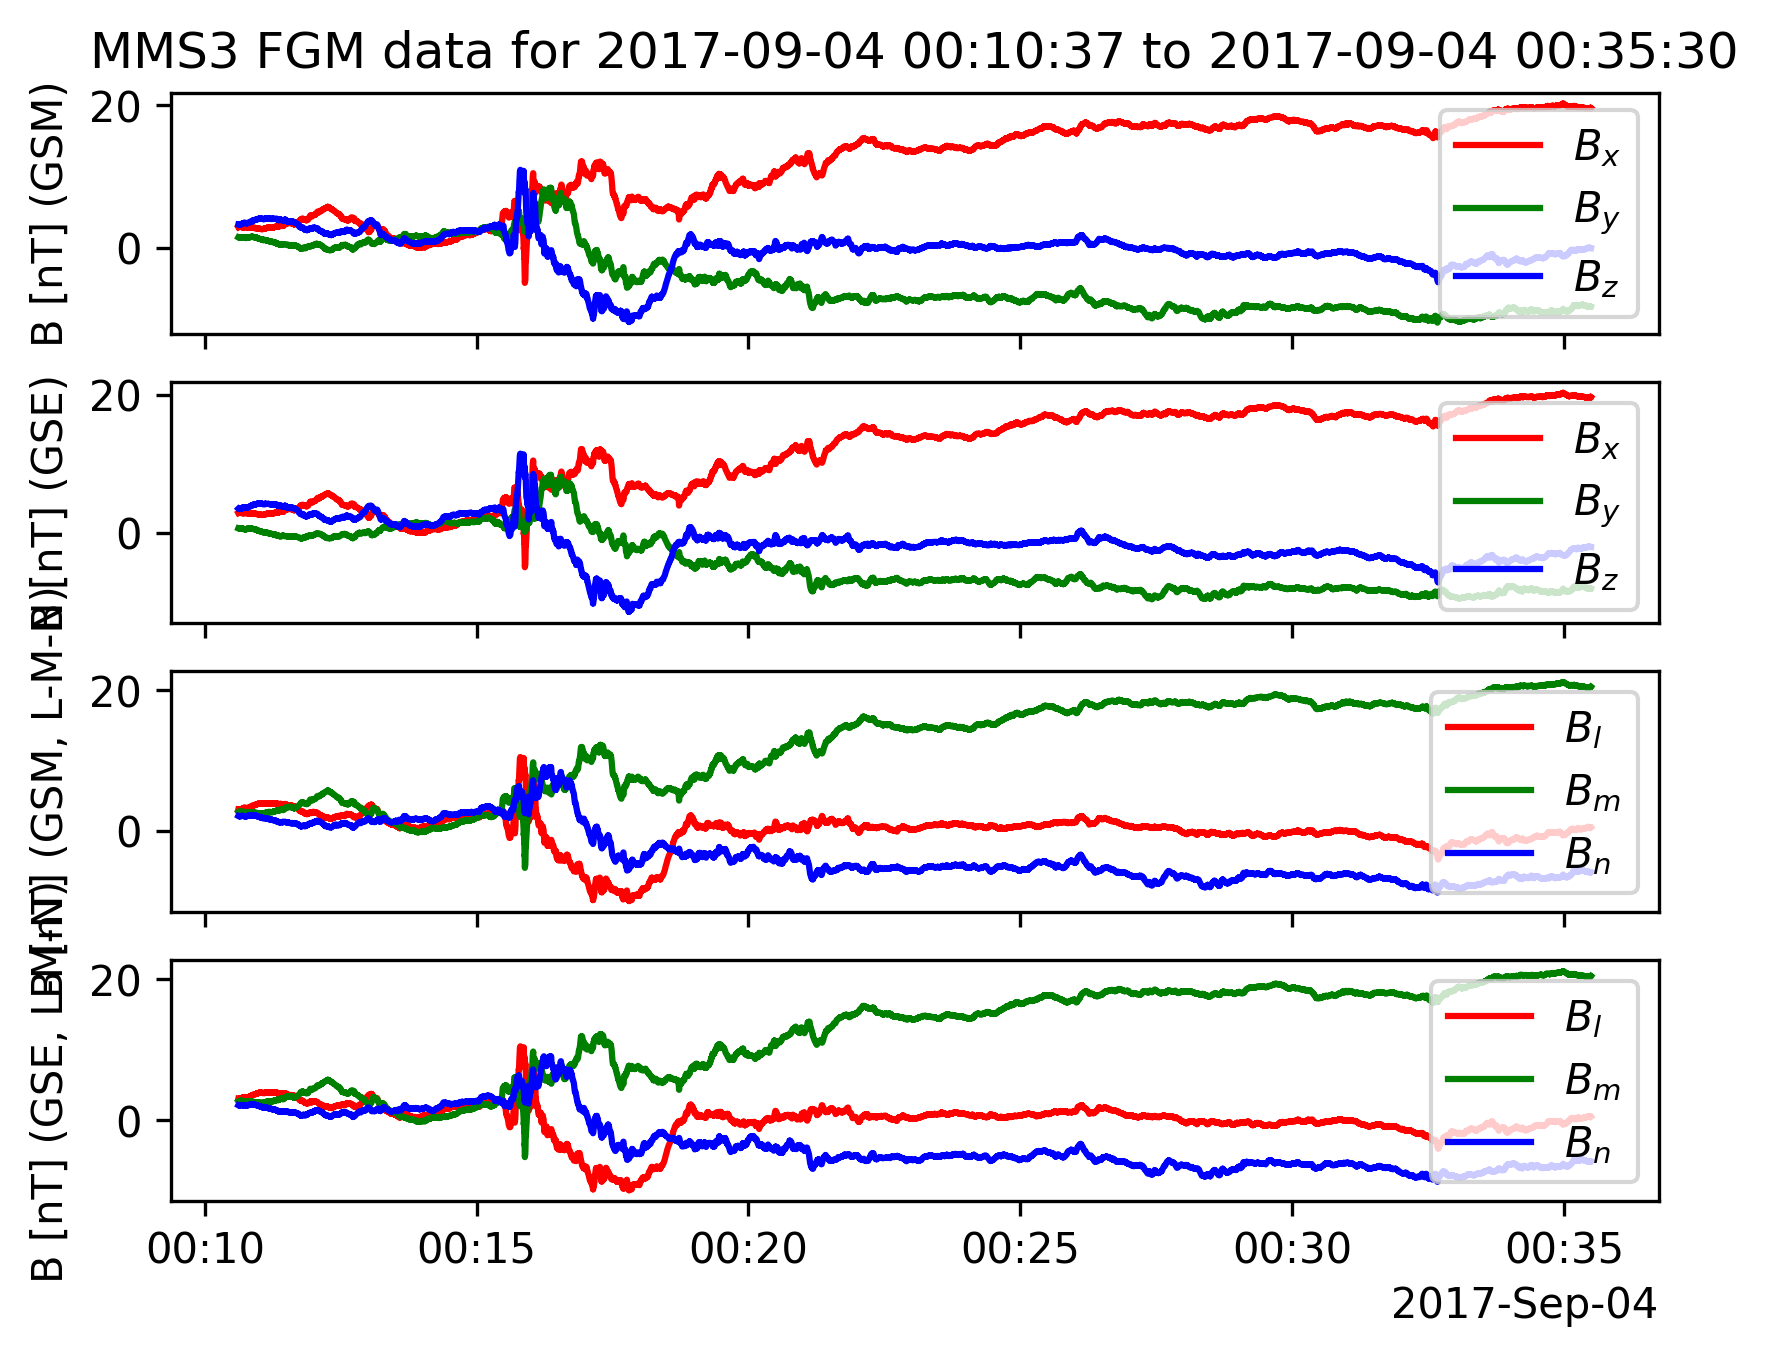
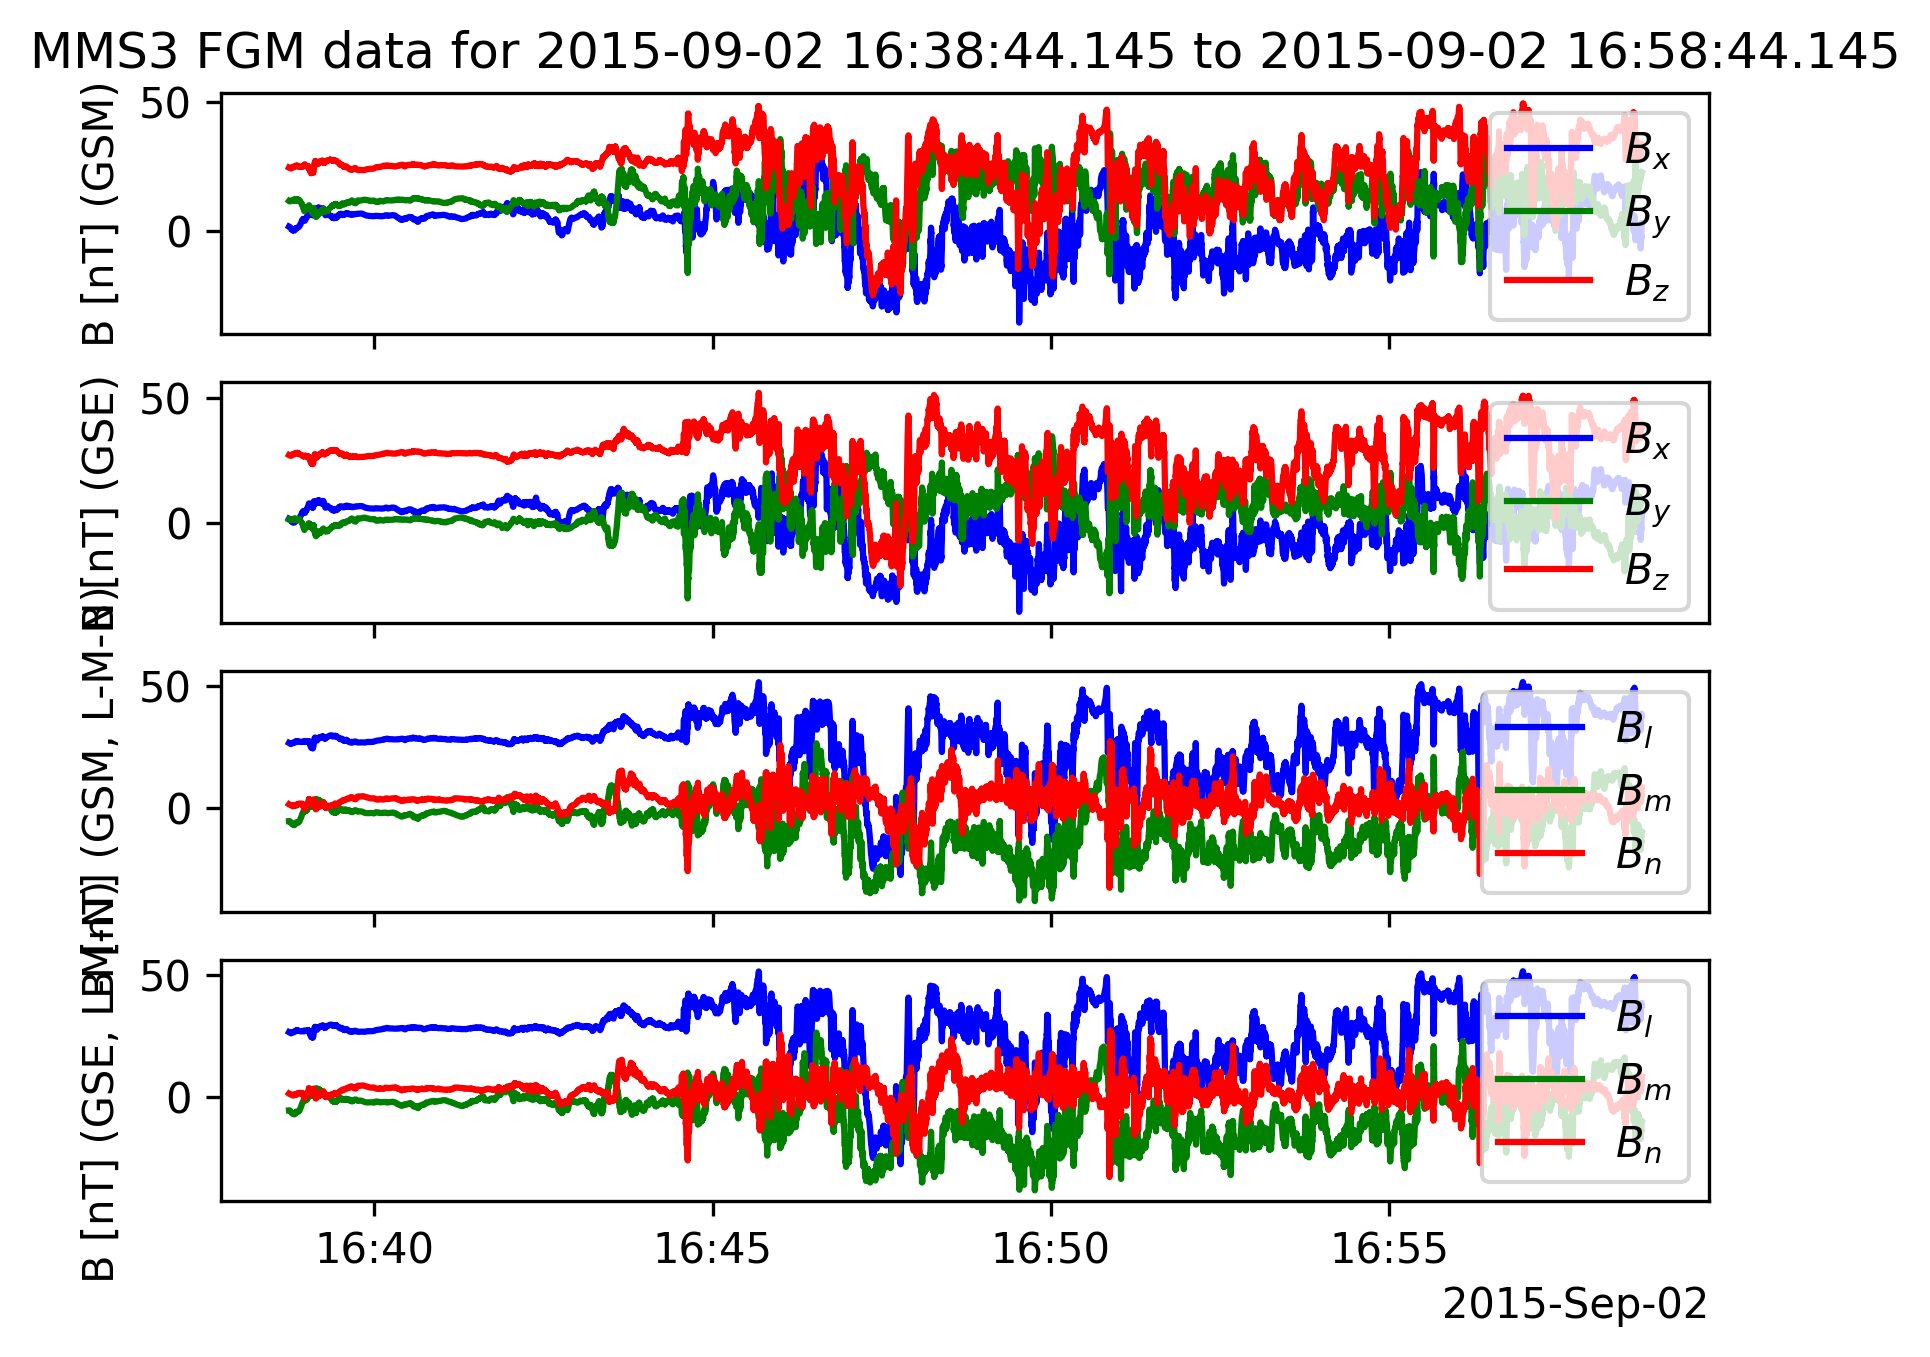
modified:   jet_reversal_quick_check_function_beta.py 	modified:   jet_reversal_quick_check_parallel_beta.py 	modified:   poetry.lock 	modified:   pyproject.toml 	modified:   spd_test_brst.py 	new file:   ../data/mms_jet_reversal_check_err_log_20221111_beta.csv 	new file:   ../data/mms_jet_reversal_

Changed region(s): [[0.0, 0.2786, 0.9638, 0.9904], [0.0, 0.0, 0.9949, 0.2476]]

diff --git a/codes/jet_reversal_quick_check_parallel_beta.py b/codes/jet_reversal_quick_check_parallel_beta.py
@@ -25,7 +25,7 @@ df_crossings.set_index("DateStart", inplace=True)
 
 # for xx, crossing_time in enumerate(df_crossings.index[indx_number:indx_max], start=indx_number):
 
-date_obs = "20221027"
+date_obs = "20221111"
 
 
 def check_jet_reversal(crossing_time):
@@ -53,34 +53,34 @@ def check_jet_reversal(crossing_time):
               'error_file_log_name': f"../data/mms_jet_reversal_check_err_log_{date_obs}_beta.csv",
               "verbose": True
               }
-    # inputs["data_rate"] = 'brst'
-    # # ptt, df_mms, ind_range_msp, ind_range_msh, t_jet_center = jrcfb.jet_reversal_check(**inputs)
-    # _ =  jrcfb.jet_reversal_check(**inputs)
+    inputs["data_rate"] = 'brst'
+    # ptt, df_mms, ind_range_msp, ind_range_msh, t_jet_center = jrcfb.jet_reversal_check(**inputs)
+    _ =  jrcfb.jet_reversal_check(**inputs)
     # v1, v2, ind_walen = jrcfb.jet_reversal_check(**inputs)
-    try:
-        # try:
-        inputs["data_rate"] = 'brst'
-        _ = jrcfb.jet_reversal_check(**inputs)
-        # except Exception:
-        #     inputs["data_rate"] = 'brst'
-        #     _ = jrcfb.jet_reversal_check(**inputs)
-    except Exception as e:
-        # print(f"\033[91;31m\n{e} for date {crossing_time}\n\033[0m")
-        # Save the crossing time to a file
-        # Check if the file exists
-        if not os.path.isfile(inputs["error_file_log_name"]):
-            # If it doesn't exist, create it
-            with open(inputs["error_file_log_name"], 'w') as f:
-                f.write("DateStart,Error\n")
-                f.write(f"{crossing_time},{e}\n")
-        else:
-            # If it exists, append to it
-            df_added_list = pd.read_csv(inputs["error_file_log_name"], sep=',', index_col=False)
-            if not np.any(df_added_list['DateStart'].values == str(crossing_time)):
-                with open(inputs["error_file_log_name"], 'a') as f:
-                    f.write(f"{crossing_time},{e}\n")
-                f.close()
-        pass
+    # try:
+    #     # try:
+    #     inputs["data_rate"] = 'brst'
+    #     _ = jrcfb.jet_reversal_check(**inputs)
+    #     # except Exception:
+    #     #     inputs["data_rate"] = 'brst'
+    #     #     _ = jrcfb.jet_reversal_check(**inputs)
+    # except Exception as e:
+    #     # print(f"\033[91;31m\n{e} for date {crossing_time}\n\033[0m")
+    #     # Save the crossing time to a file
+    #     # Check if the file exists
+    #     if not os.path.isfile(inputs["error_file_log_name"]):
+    #         # If it doesn't exist, create it
+    #         with open(inputs["error_file_log_name"], 'w') as f:
+    #             f.write("DateStart,Error\n")
+    #             f.write(f"{crossing_time},{e}\n")
+    #     else:
+    #         # If it exists, append to it
+    #         df_added_list = pd.read_csv(inputs["error_file_log_name"], sep=',', index_col=False)
+    #         if not np.any(df_added_list['DateStart'].values == str(crossing_time)):
+    #             with open(inputs["error_file_log_name"], 'a') as f:
+    #                 f.write(f"{crossing_time},{e}\n")
+    #             f.close()
+    #     pass
     # return ptt, df_mms, ind_range_msp, ind_range_msh, t_jet_center
     return None
 
@@ -95,18 +95,18 @@ def suppress_stdout_stderr():
 
 use_parallel = True
 
-with suppress_stdout_stderr():
-#for foo in range(1):
+#with suppress_stdout_stderr():
+for foo in range(1):
     if use_parallel:
         # Set the number of processes to use
         # num_processes = 20
         # Ask the user for index number
         # indx_min = int(input("Enter the index number: "))
-        indx_min = 7519
+        indx_min = 18
         # indx_min = 400
         # Ask the user for the maximum index number
         # indx_max = int(input("Enter the maximum index number: "))
-        indx_max = indx_min + 9270
+        indx_max = indx_min + 2
         # create a pool of processes
         pool = mp.Pool()
         # create a list of processes to run
@@ -115,11 +115,12 @@ with suppress_stdout_stderr():
         # run the processes
         for p in processes:
             p.get()
+            p.wait()
         # close the pool and wait for the processes to finish
         pool.close()
         pool.join()
     else:
-        indx_min = 0
+        indx_min = 28
         # indx_min = 400
         # Ask the user for the maximum index number
         # indx_max = int(input("Enter the maximum index number: "))

diff --git a/codes/spd_test_brst.py b/codes/spd_test_brst.py
@@ -3,7 +3,7 @@ import pytplot as ptt
 import matplotlib.pyplot as plt
 import pyspedas.mms.cotrans.mms_cotrans_lmn as mms_cotrans_lmn
 
-trange = ['2017-09-04 00:10:37', '2017-09-04 00:35:30']
+trange = ['2015-09-02 16:38:44.145', '2015-09-02 16:58:44.145']
 
 data_rate = 'srvy'
 probe = 3
@@ -32,7 +32,6 @@ _ = mms_cotrans_lmn.mms_cotrans_lmn(name_in=f'mms{probe}_fgm_b_gsm_srvy_l2_bvec'
                                     name_out=f'mms{probe}_fgm_b_gsm_lmn_srvy_l2',
                                     gsm=True, probe=str(probe), data_rate=data_rate)
 
-
 _ = mms_cotrans_lmn.mms_cotrans_lmn(name_in=f'mms{probe}_fgm_b_gsm_srvy_l2_bvec',
                                     name_out=f'mms{probe}_fgm_b_gse_lmn_srvy_l2',
                                     gse=True, probe=str(probe), data_rate=data_rate)
@@ -44,34 +43,34 @@ fgm_time_utc = spd.time_datetime(fgm_time_unix)
 
 # Plot all the data
 fig, ax = plt.subplots(4, 1, sharex=True)
-ax[0].plot(fgm_time_utc, fgm_b_gsm[:, 0], 'r', label="$B_{x}$")
+ax[0].plot(fgm_time_utc, fgm_b_gsm[:, 0], 'b', label="$B_{x}$")
 ax[0].plot(fgm_time_utc, fgm_b_gsm[:, 1], 'g', label="$B_{y}$")
-ax[0].plot(fgm_time_utc, fgm_b_gsm[:, 2], 'b', label="$B_{z}$")
+ax[0].plot(fgm_time_utc, fgm_b_gsm[:, 2], 'r', label="$B_{z}$")
 ax[0].set_ylabel("B [nT] (GSM)")
 ax[0].legend()
 ax[0].set_title(f"MMS{probe} FGM data for {trange[0]} to {trange[1]}")
 
-ax[1].plot(fgm_time_utc, fgm_b_gse[:, 0], 'r', label="$B_{x}$")
+ax[1].plot(fgm_time_utc, fgm_b_gse[:, 0], 'b', label="$B_{x}$")
 ax[1].plot(fgm_time_utc, fgm_b_gse[:, 1], 'g', label="$B_{y}$")
-ax[1].plot(fgm_time_utc, fgm_b_gse[:, 2], 'b', label="$B_{z}$")
+ax[1].plot(fgm_time_utc, fgm_b_gse[:, 2], 'r', label="$B_{z}$")
 ax[1].set_ylabel("B [nT] (GSE)")
 ax[1].legend()
 
-ax[2].plot(fgm_time_utc, fgm_b_gsm_lmn[:, 0], 'r', label="$B_{l}$")
+ax[2].plot(fgm_time_utc, fgm_b_gsm_lmn[:, 0], 'b', label="$B_{l}$")
 ax[2].plot(fgm_time_utc, fgm_b_gsm_lmn[:, 1], 'g', label="$B_{m}$")
-ax[2].plot(fgm_time_utc, fgm_b_gsm_lmn[:, 2], 'b', label="$B_{n}$")
+ax[2].plot(fgm_time_utc, fgm_b_gsm_lmn[:, 2], 'r', label="$B_{n}$")
 ax[2].set_ylabel("B [nT] (GSM, L-M-N)")
 ax[2].legend()
 
-ax[3].plot(fgm_time_utc, fgm_b_gse_lmn[:, 0], 'r', label="$B_{l}$")
+ax[3].plot(fgm_time_utc, fgm_b_gse_lmn[:, 0], 'b', label="$B_{l}$")
 ax[3].plot(fgm_time_utc, fgm_b_gse_lmn[:, 1], 'g', label="$B_{m}$")
-ax[3].plot(fgm_time_utc, fgm_b_gse_lmn[:, 2], 'b', label="$B_{n}$")
+ax[3].plot(fgm_time_utc, fgm_b_gse_lmn[:, 2], 'r', label="$B_{n}$")
 ax[3].set_ylabel("B [nT] (GSE, L-M-N)")
 ax[3].legend()
 
 plt.savefig(f"../figures/fgm_data_01.png", dpi=300, bbox_inches="tight")
 plt.close("all")
-
+"""
 data_rate = 'fast'
 
 mms_fpi_varnames = [f'mms3_dis_bulkv_gse_{data_rate}', f'mms3_dis_bulkv_gsm_{data_rate}',
@@ -107,7 +106,7 @@ print(f"\033[1;32m Start time: {fpi_time_utc[0].strftime('%Y-%m-%d %H:%M:%S')} \
 print(f"\033[1;32m End time: {fpi_time_utc[-1].strftime('%Y-%m-%d %H:%M:%S')} \033[0m")
 
 # Plot all the data
-plt.figure()
+plt.figure(figsize=(12, 2.8))
 # plt.plot(fpi_time_utc, fpi_v_gse[:, 0], label='Vx_gse')
 # plt.plot(fpi_time_utc, fpi_v_gse[:, 1], label='Vy_gse')
 # plt.plot(fpi_time_utc, fpi_v_gse[:, 2], label='Vz_gse')
@@ -118,9 +117,9 @@ plt.figure()
 # plt.plot(fpi_time_utc, fpi_v_gse_lmn[:, 1], label='Vm_gse_lmn', lw=2, alpha=1, color='b')
 # plt.plot(fpi_time_utc, fpi_v_gse_lmn[:, 2], label='Vn_gse_lmn', lw=2, alpha=1, color='g')
 
-plt.plot(fpi_time_utc, fpi_v_gsm_lmn[:, 0], label='Vl_gsm_lmn', lw=1, alpha=0.3, color='r')
-plt.plot(fpi_time_utc, fpi_v_gsm_lmn[:, 1], label='Vm_gsm_lmn', lw=1, alpha=0.3, color='b')
-plt.plot(fpi_time_utc, fpi_v_gsm_lmn[:, 2], label='Vn_gsm_lmn', lw=1, alpha=0.3, color='g')
+plt.plot(fpi_time_utc, fpi_v_gsm_lmn[:, 0], label='Vl_gsm_lmn', lw=1.5, alpha=0.3, color='b')
+plt.plot(fpi_time_utc, fpi_v_gsm_lmn[:, 1], label='Vm_gsm_lmn', lw=1.5, alpha=0.3, color='g')
+plt.plot(fpi_time_utc, fpi_v_gsm_lmn[:, 2], label='Vn_gsm_lmn', lw=1.5, alpha=0.3, color='r')
 
 
 plt.xlabel('Time [UTC]')
@@ -129,3 +128,4 @@ plt.xlim(fpi_time_utc[0], fpi_time_utc[-1])
 plt.legend()
 plt.title(f"MMS{probe} FPI {data_rate} data for {fpi_time_utc[0].strftime('%Y-%m-%d %H:%M:%S')} to {fpi_time_utc[-1].strftime('%Y-%m-%d %H:%M:%S')}")
 plt.savefig(f"../figures/fpi_data.png", dpi=300, bbox_inches="tight")
+"""

diff --git a/codes/jet_reversal_quick_check_function_beta.py b/codes/jet_reversal_quick_check_function_beta.py
@@ -133,7 +133,7 @@ def jet_reversal_check(crossing_time=None, dt=90, probe=3, data_rate='fast', lev
         # Convert gsm to lmn
         _ = mms_cotrans_lmn.mms_cotrans_lmn(name_in=f'mms{probe}_dis_bulkv_gsm_{data_rate}',
                                             name_out=f'mms{probe}_dis_bulkv_lmn_{data_rate}',
-                                            gsm=True, probe=str(probe), data_rate=data_rate)
+                                            gse=False, gsm=True, probe=str(probe), data_rate=data_rate)
 
         mms_fpi_bulkv_lmn = ptt.get_data(f'mms{probe}_dis_bulkv_lmn_{data_rate}')[1:4][0]
 
